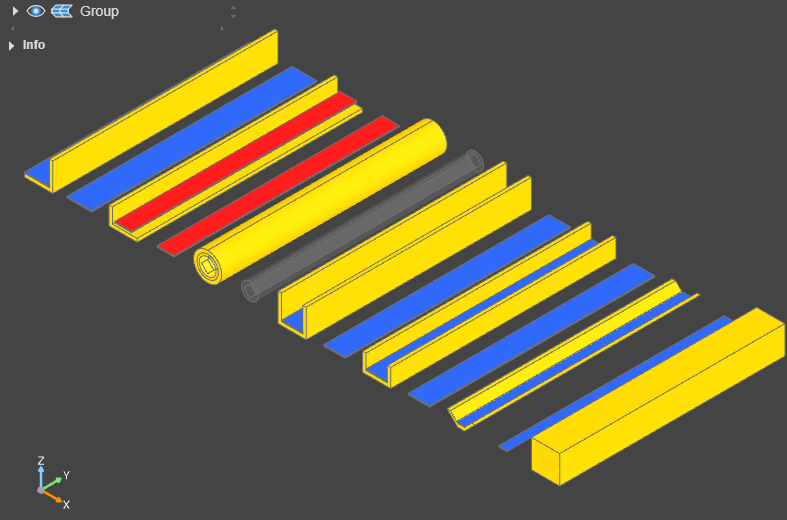
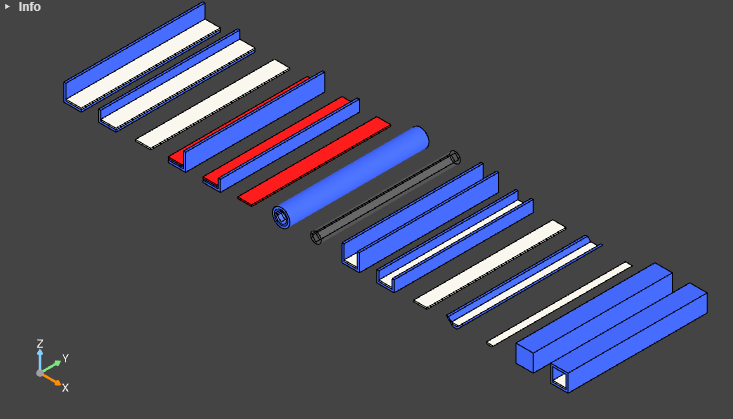
Readme, update images, include obstacles and improved default config

diff --git a/config.py b/config.py
@@ -58,19 +58,19 @@ class Obstacles:
     # name: ObstacleType
     # origin: world coords (x, y, z) in mm
     # rotation: Euler XYZ degrees (x, y, z) increments of 90 degrees
-    MANUAL_PLACEMENT_ENABLED = False  # global manual obstacle placement on/off switch
+    MANUAL_PLACEMENT_ENABLED = True  # global manual obstacle placement on/off switch
     MANUAL_PLACEMENTS = (
         {
-            "enabled": True,
+            "enabled": False,
             "name": ObstacleType.OMEGA.value,
             "origin": (0.0, 10.0, 0.0),
             "orientation": (90.0, 0.0, 0.0),
         },
         {
             "enabled": True,
-            "name": ObstacleType.ARROW.value,
-            "origin": (0.0, -10.0, 0.0),
-            "orientation": (90.0, 0.0, 0.0),
+            "name": ObstacleType.QUESTION_MARK.value,
+            "origin": (0.0, 0.0, 0.0),
+            "orientation": (-90.0, 180.0, 0.0),
         },
     )
 
@@ -121,7 +121,7 @@ class Cylinder:
 class Path:
     PATH_SEGMENT_DESIGN_STRATEGY = [
         PathSegmentDesignStrategy.COMPOUND,
-        # SegmentDesignStrategy.SPLINE,
+        PathSegmentDesignStrategy.SPLINE,
     ]
 
     PATH_CURVE_TYPE = [
@@ -146,7 +146,9 @@ class Path:
 
     PATH_PROFILE_TYPE_OVERRIDES = (
         {
-            7: PathProfileType.L_SHAPE_MIRRORED_ADJUSTED_HEIGHT
+            7: PathProfileType.L_SHAPE_ADJUSTED_HEIGHT,
+            11: PathProfileType.L_SHAPE_MIRRORED_ADJUSTED_HEIGHT,
+            12: PathProfileType.O_SHAPE,
         }
         if ENABLE_OVERRIDES
         else {}

diff --git a/path_profiles_overview.py b/path_profiles_overview.py
@@ -52,7 +52,7 @@ def sweep_single_section_profile(profile_sketch, path_wire, label=None, color=No
 
 
 # Constants
-ERROR_COLOR = "#FF1A1AFF"
+ERROR_COLOR = "#FF1A1A"
 ACCENT_TYPES = set(ACCENT_REGISTRY.values())
 SUPPORT_TYPES = set(SUPPORT_REGISTRY.values())
 

diff --git a/README.md b/README.md
@@ -53,15 +53,13 @@ path cross sections can be 3D modelled by running:
 path_profiles_overview.py
 ```
 
-This results in an overview with all path profiles, including their path accent color and support material swep along a straight line. A red color color is used to indicate the path does not have any adjustments yet in the configuration:
+This results in an overview with all path profiles, including their path accent color and support material swept along a straight line. A red color color is used to indicate the path does not have any adjustments yet in the configuration:
 
 <img src="resources/path_profiles_overview.png" alt="Path Profiles Overview" width="400"/>
 
 **Obstacles**
 
-⚠️ Obstacles are work in progress, disabled by default
-
-Obstacled can be randomly selected and placed (xyz and orientation) in the puzzle. The obstacles feature as start and end node that can be connected with paths. Through the usage of a node grid, collisions and occupancy can be handled.
+Obstacled can be randomly or manually selected and placed (xyz and orientation) in the puzzle. The obstacles feature as start and end node that can be connected with paths. Through the usage of a node grid, collisions and occupancy can be handled.
 
 For quick visualization and debugging, all the obstacles currently in the obstacle catalogue can be 3D modelled by running:
 